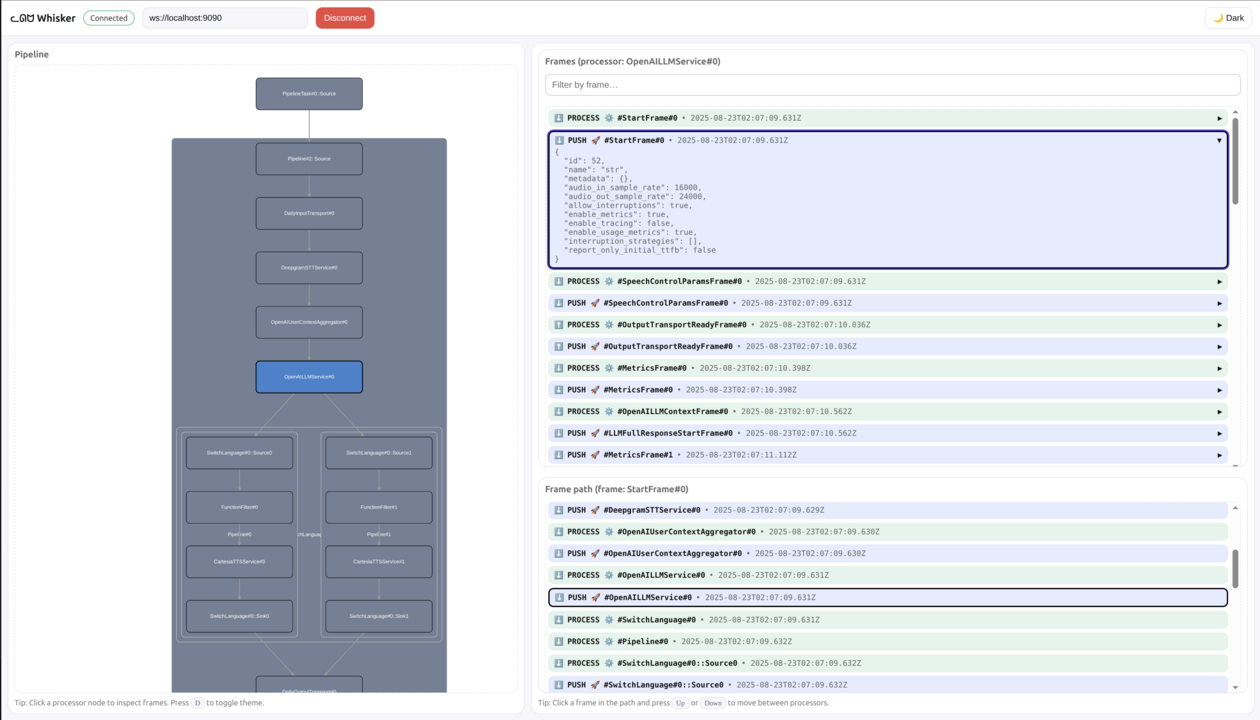
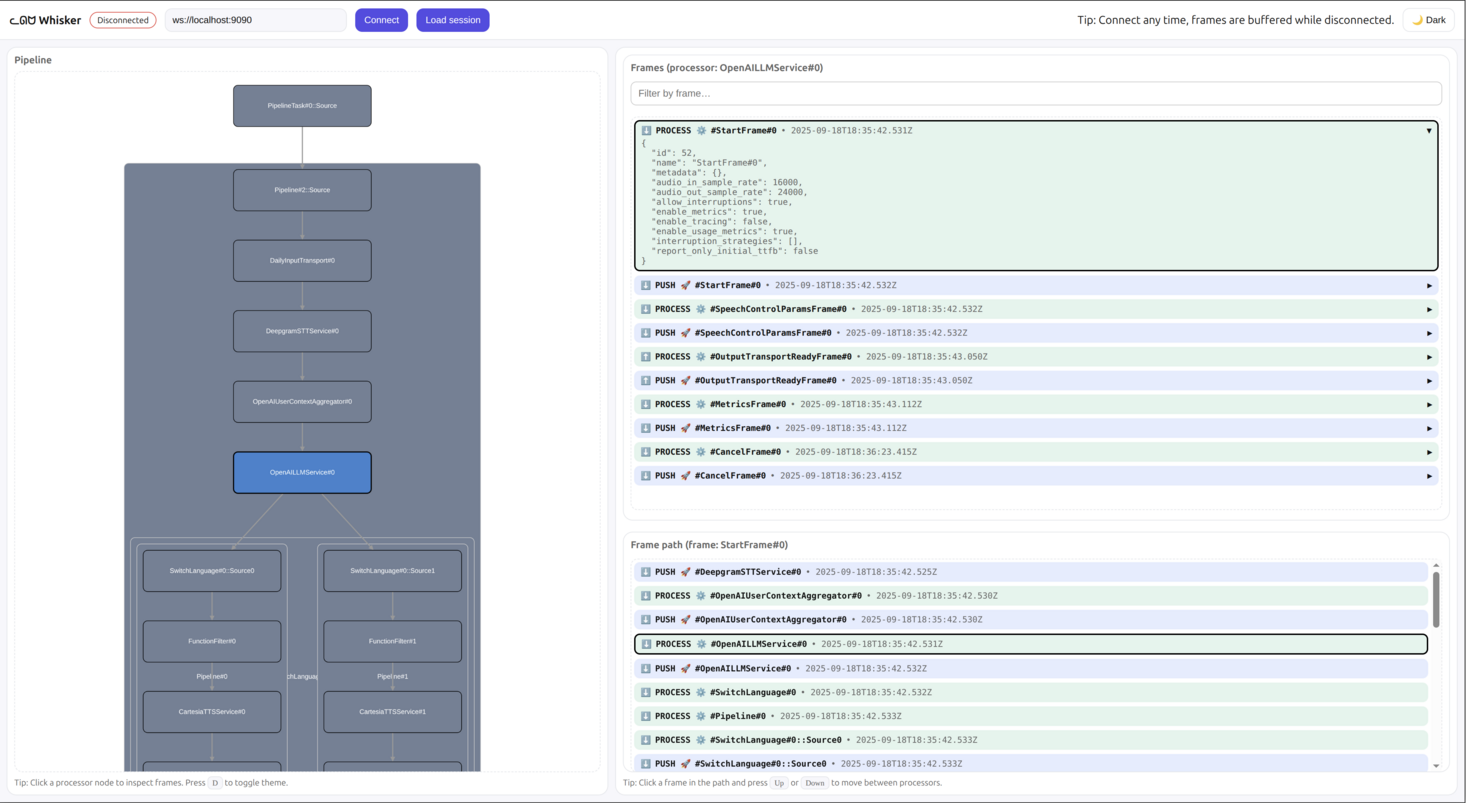
update README and whisker image

diff --git a/README.md b/README.md
@@ -55,7 +55,18 @@ This starts the Whisker server that the graphical UI will connect to. By default
 ws://localhost:9090
 ```
 
-## 🚀 Running the debugger UI
+## 💾 Saving sessions
+
+You can also save your sessions to a file, which is helpful for debugging later or sharing with someone for assistance:
+
+
+```python
+whisker = WhiskerObserver(pipeline, file_name="whisker.bin")
+```
+
+Load the file using the Whisker client.
+
+## 🚀 Running the client
 
 Clone the repository:
 
